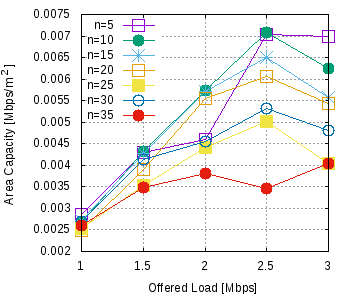
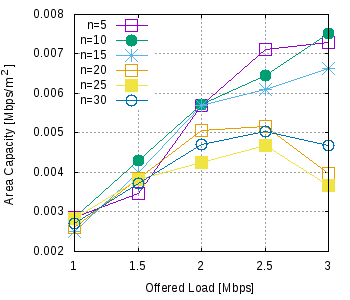
updating doc and plot script for study1, with newly generated figures of results

diff --git a/src/wifi-he/doc/source/wifi-he-results.rst b/src/wifi-he/doc/source/wifi-he-results.rst
@@ -729,6 +729,9 @@ make latexpdf
 Study 1 Results
 ===============
 
+The figures in the section were generated using the ns-3-dev-11ax 
+repository as of commit changeset 7d56f75.
+
 System Throughput
 #################
 
